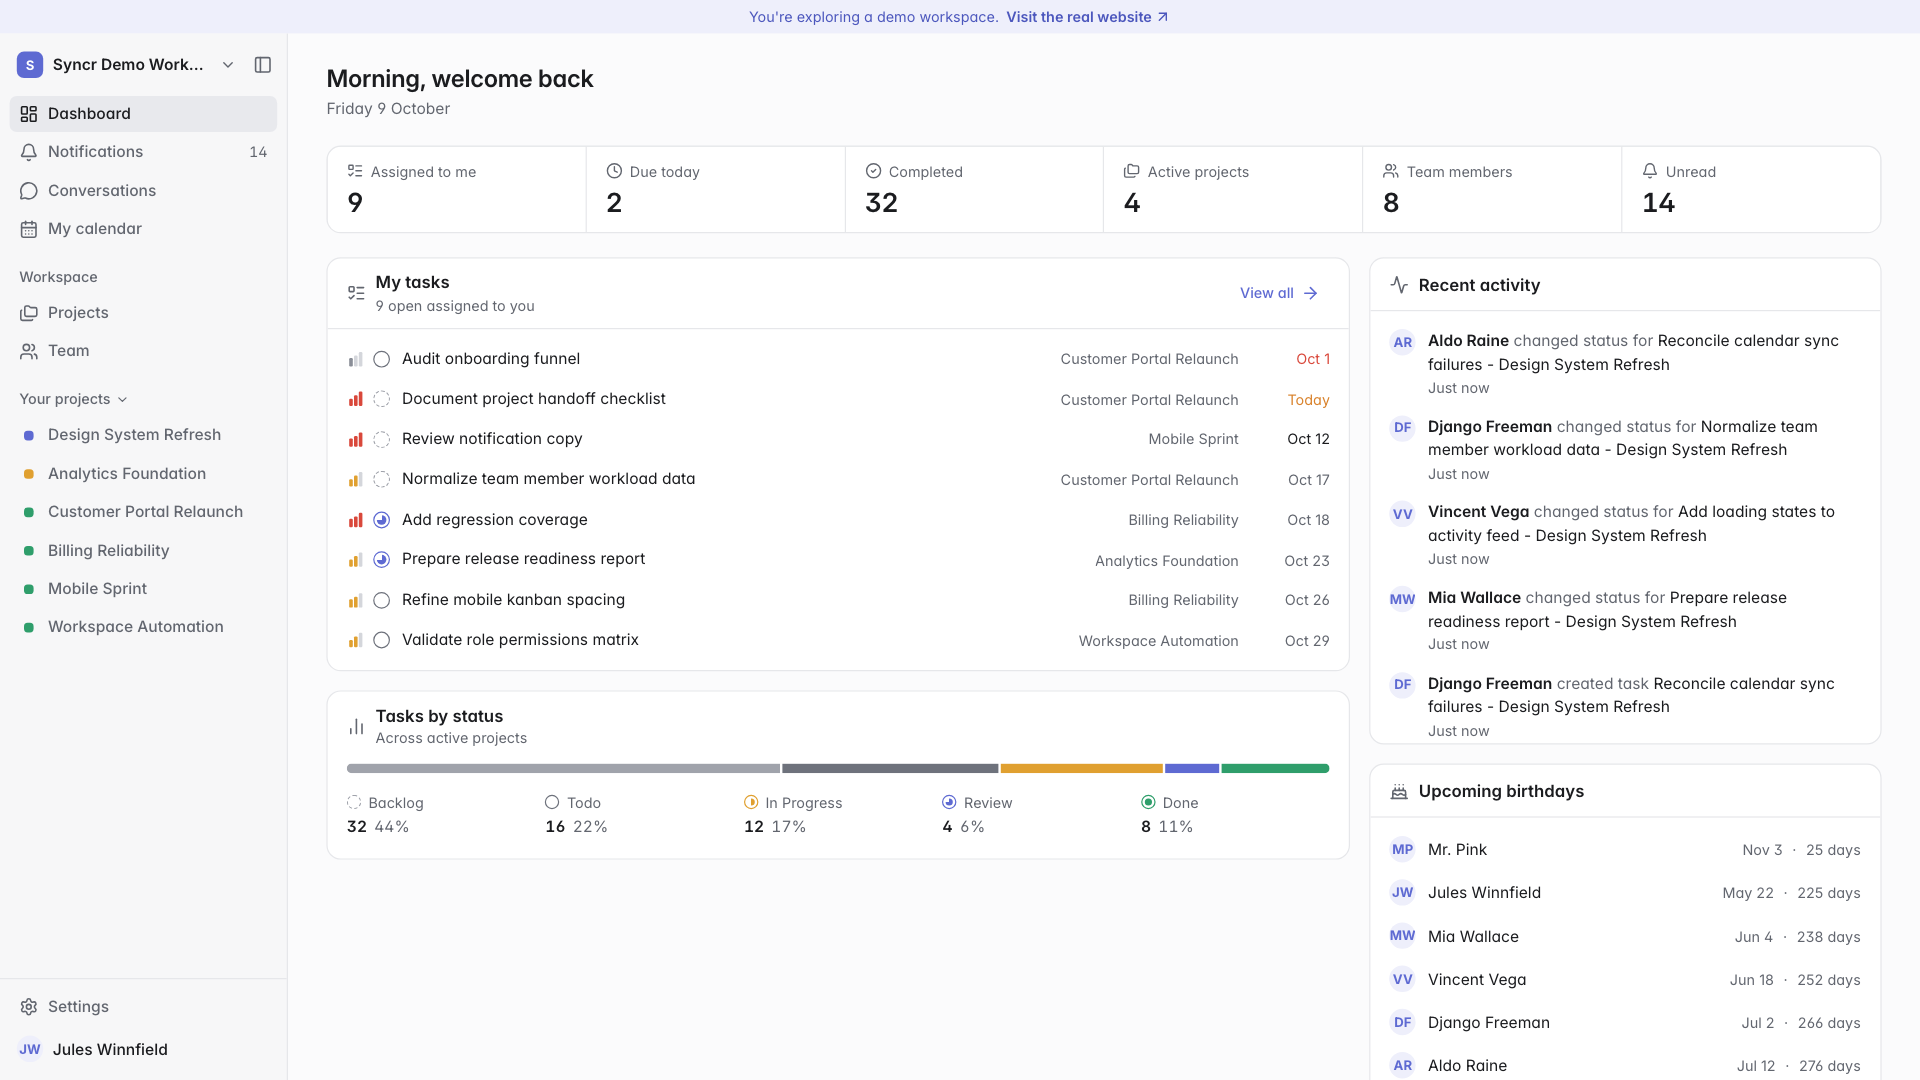
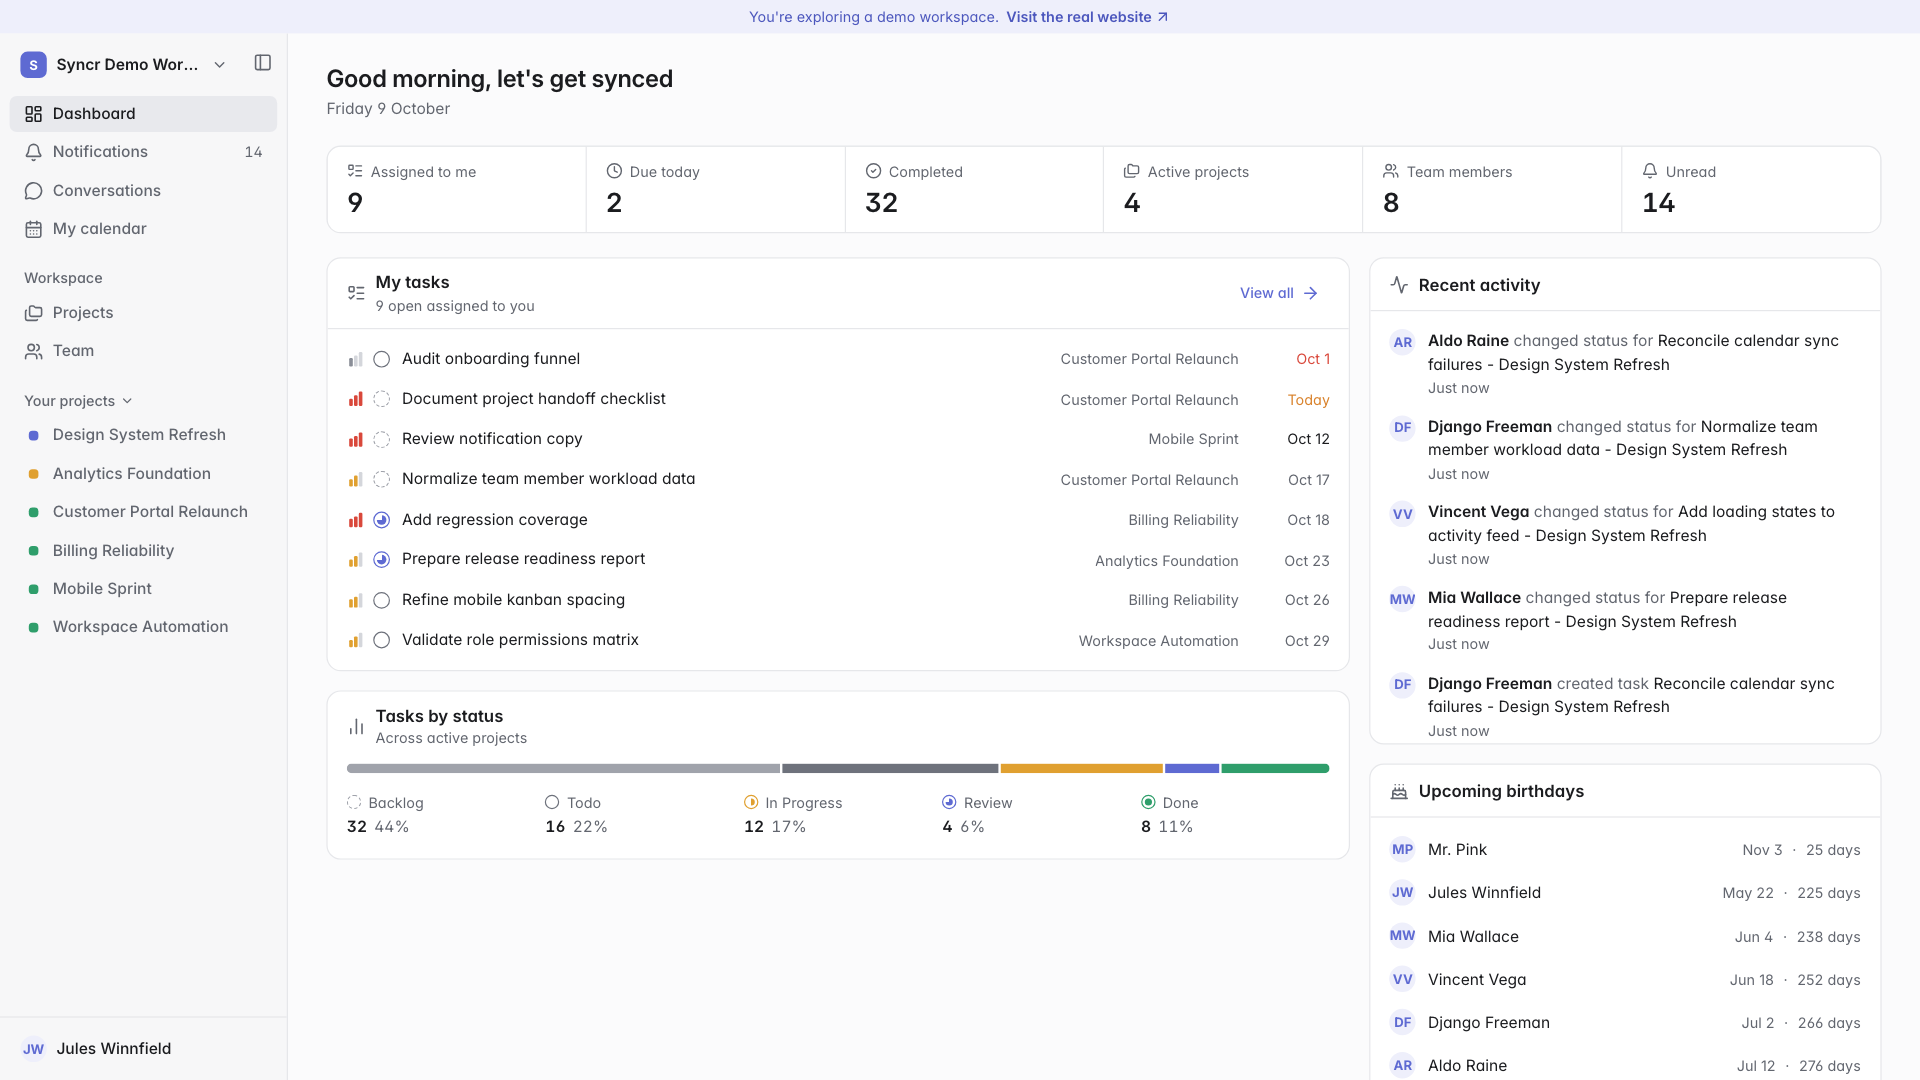
docs: refresh README with current features and screenshots

diff --git a/README.md b/README.md
@@ -6,35 +6,53 @@ Syncr is a full-stack project management and team collaboration app built around
   <a href="https://demo.syncr.cc"><strong>Open the live demo</strong></a>
 </p>
 
-> Media below uses placeholders for now.
-
 <p align="center">
-  <img src="./assets/dashboard.png" alt="Syncr dashboard screenshot placeholder" width="100%" />
+  <img src="./assets/dashboard.png" alt="Syncr dashboard" width="100%" />
 </p>
 
 ## Features
 
-- **Workspace dashboard** with active project counts, completed tasks, due-today work, assigned tasks, unread notifications, birthdays, weekly completion trends, and recent activity.
-- **Project management** with project creation, project overview pages, team member visibility, progress summaries, and project-specific navigation.
-- **Kanban task board** with Backlog, Todo, In Progress, Review, and Done columns, drag-and-drop task movement, assignees, labels, priorities, and due dates.
-- **Task details** with editable task metadata, acceptance criteria, comments, and an activity timeline for work history.
-- **Personal and project calendars** for viewing task deadlines in calendar form.
-- **Google Calendar integration** support for connecting external calendar workflows.
-- **Team management** with company membership, role-based permissions, invitation flows, and team statistics.
-- **Realtime notifications** for project, task, invitation, and collaboration events through Socket.IO.
-- **Realtime conversations** for direct or team communication, including conversation lists, message history, and live message updates.
-- **Authentication and company setup** with registration, login, JWT cookies, company selection, and protected application routes.
-- **Responsive UI** built for desktop and mobile layouts.
+- **Workspace dashboard** with your open tasks, due-today work, completed tasks, active projects, team size and unread notifications, plus tasks by status, recent activity and upcoming birthdays.
+- **Projects** in a table or grid view with status filters, progress, members and due dates, and a sidebar list for jumping straight into any project.
+- **Project overview** with a task summary, status distribution, team workload and an activity timeline.
+- **Kanban board** with Backlog, Todo, In Progress, Review and Done columns, drag and drop, inline task creation, priorities, assignees and due dates.
+- **Task details** in a two-pane layout: description, acceptance criteria, comments and activity on the left, and inline-editable properties that save as you go on the right.
+- **Personal and project calendars** for task deadlines, with optional **Google Calendar** sync.
+- **Team management** with role-based permissions, invitations and per-member workload.
+- **Notifications inbox** with filters, day grouping and mark-as-read, delivered in realtime over Socket.IO.
+- **Realtime conversations** for direct and group chats, with live messages and typing indicators.
+- **Workspace settings** including company work hours, profile, password and calendar connections.
+- **Light, dark and system themes**, switchable under Settings → Appearance.
+- **Responsive UI** with a collapsible sidebar on desktop and a drawer on mobile.
+- **Read-only demo mode** with a seeded workspace, served on the `demo.` subdomain.
 
 ## Product Preview
 
-| Dashboard                                                        | Projects                                                            | Kanban Tasks                                                     |
-| ---------------------------------------------------------------- | ------------------------------------------------------------------- | ---------------------------------------------------------------- |
-| <img src="./assets/dashboard.png" alt="Dashboard placeholder" /> | <img src="./assets/projects.png" alt="Projects page placeholder" /> | <img src="./assets/kanban.png" alt="Kanban board placeholder" /> |
+| Dashboard                                               | Projects                                              | Kanban board                                         |
+| ------------------------------------------------------- | ----------------------------------------------------- | ---------------------------------------------------- |
+| <img src="./assets/dashboard.png" alt="Dashboard" />    | <img src="./assets/projects.png" alt="Projects" />    | <img src="./assets/kanban.png" alt="Kanban board" /> |
 
-| Task Details                                                           | Calendar                                                       | Conversations                                                            |
-| ---------------------------------------------------------------------- | -------------------------------------------------------------- | ------------------------------------------------------------------------ |
-| <img src="./assets/task-details.png" alt="Task details placeholder" /> | <img src="./assets/calendar.png" alt="Calendar placeholder" /> | <img src="./assets/conversations.png" alt="Conversations placeholder" /> |
+| Project overview                                                | Task details                                                 | Calendar                                             |
+| --------------------------------------------------------------- | ------------------------------------------------------------ | ---------------------------------------------------- |
+| <img src="./assets/project-overview.png" alt="Project overview" /> | <img src="./assets/task-details.png" alt="Task details" /> | <img src="./assets/calendar.png" alt="Calendar" />   |
+
+| Conversations                                                  | Team                                         | Notifications                                                 |
+| -------------------------------------------------------------- | -------------------------------------------- | ------------------------------------------------------------- |
+| <img src="./assets/conversations.png" alt="Conversations" />   | <img src="./assets/team.png" alt="Team" />   | <img src="./assets/notifications.png" alt="Notifications" />  |
+
+### Dark mode
+
+| Dashboard                                                         | Kanban board                                                    |
+| ----------------------------------------------------------------- | --------------------------------------------------------------- |
+| <img src="./assets/dashboard-dark.png" alt="Dashboard, dark" />   | <img src="./assets/kanban-dark.png" alt="Kanban board, dark" /> |
+
+### Mobile
+
+<p align="center">
+  <img src="./assets/mobile-dashboard.png" alt="Dashboard on mobile" width="260" />
+  &nbsp;&nbsp;
+  <img src="./assets/mobile-kanban.png" alt="Kanban board on mobile" width="260" />
+</p>
 
 ## Roadmap
 
@@ -49,12 +67,14 @@ Syncr is a full-stack project management and team collaboration app built around
 - [ ] Option to turn off notifications for specific projects or tasks
 - [ ] Option to create more columns on the Kanban board and customize column names
 - [ ] Company branding and theming
-- [ ] Company-specific settings like working hours
 - [ ] Forgot password flow for user accounts
 - [ ] Add actual image uploads for user avatars
 
 ### Done
 
+- [x] ~~Company-specific settings like working hours~~
+- [x] ~~Light and dark themes~~
+- [x] ~~UI/UX rework~~
 - [x] ~~Implement demonstration environment with seeded data and demo user accounts~~
 - [x] ~~Display of a person typing in conversations~~
 - [x] ~~Mobile adaptation~~
@@ -163,6 +183,10 @@ npm run dev:client
 ```
 
 The client runs at `http://localhost:5173`.
+
+### Demo Mode
+
+Open `http://demo.localhost:5173` to use the seeded demo workspace. It signs you in automatically as `demo@syncr.cc`, uses `DEMO_DATABASE_URL`, and is read-only.
 
 ## Useful Scripts
 
